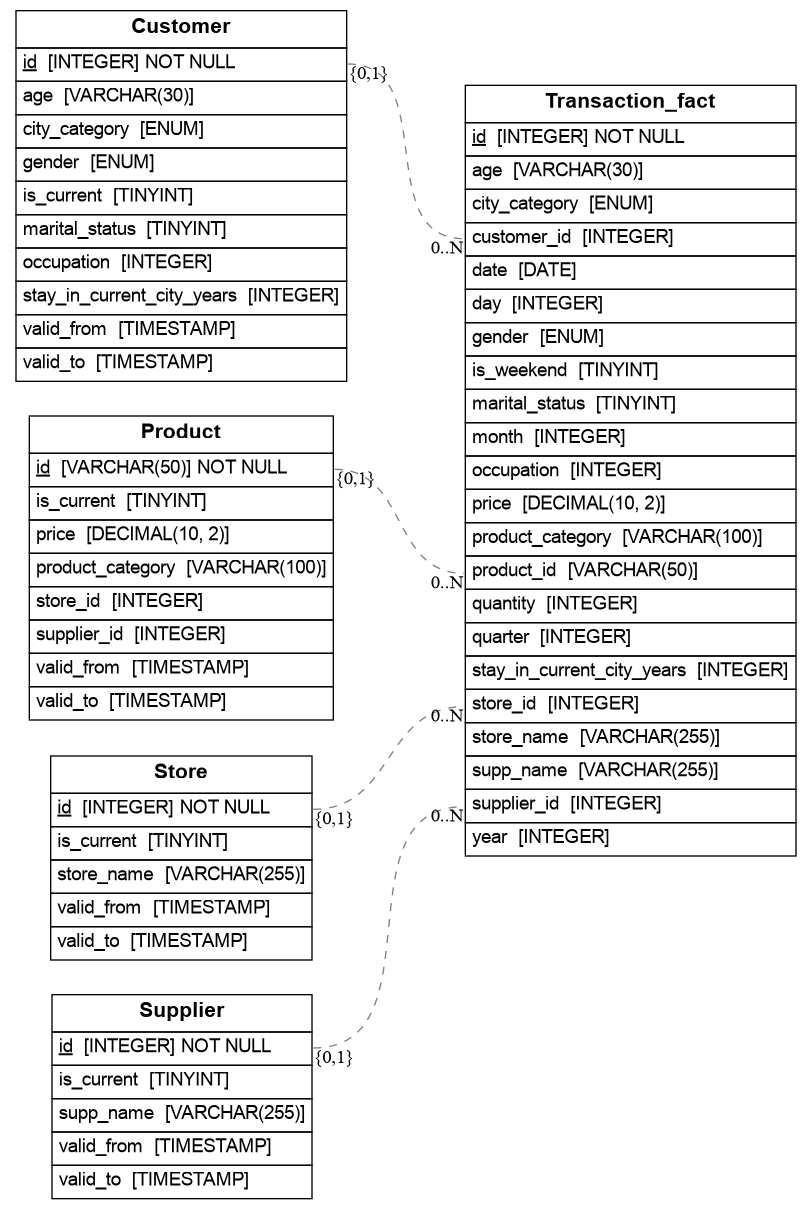
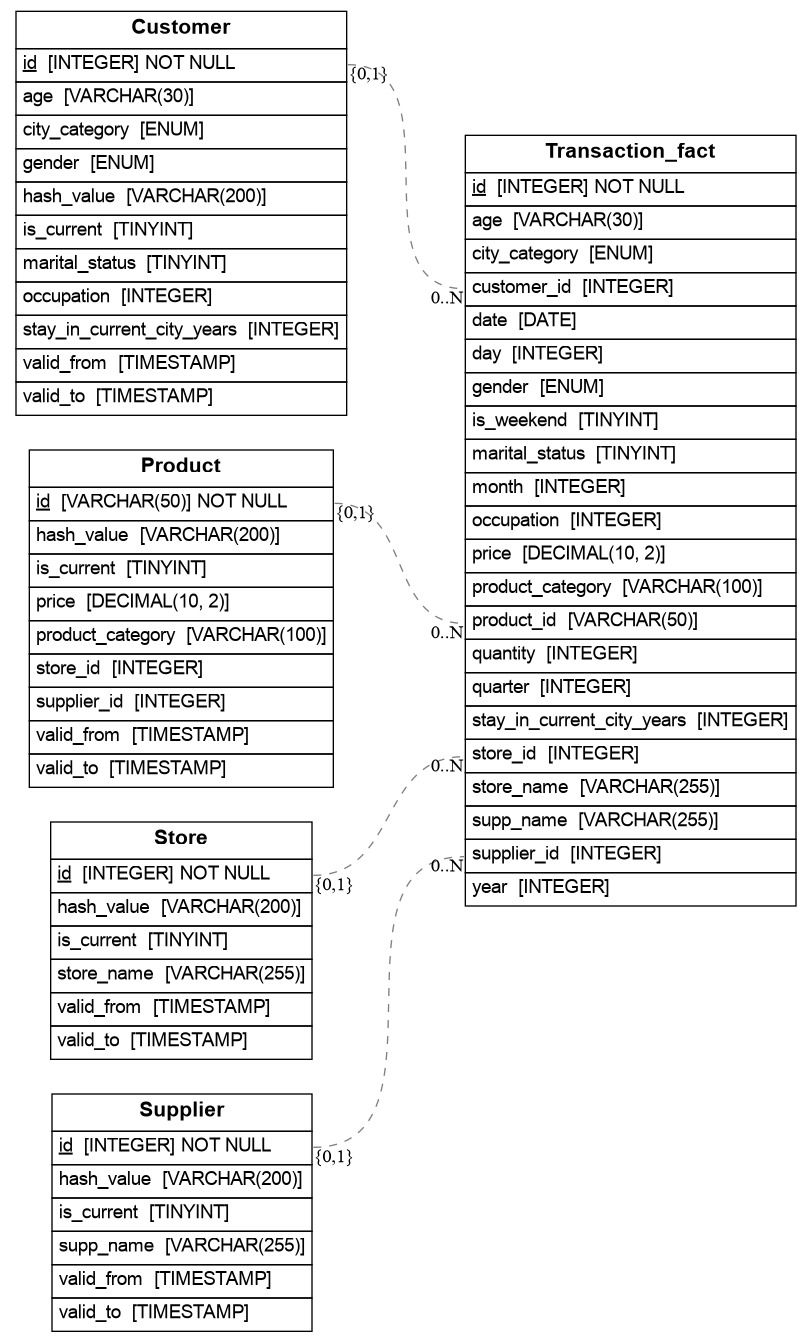
did implement a ftn

Changed region(s): [[0.0308, 0.0, 0.4618, 1.0], [0.5234, 0.0612, 0.9852, 0.7039], [0.4618, 0.0612, 0.4926, 0.0918]]

diff --git a/etl/master_data_loader.py b/etl/master_data_loader.py
@@ -2,7 +2,55 @@ import sqlalchemy
 import pandas as pd
 from sqlalchemy import text
 from etl.constants import MASTER_DATA_FILES
-
+import hashlib
+master_data_info = [
+        {
+            "csv_file": MASTER_DATA_FILES["customers"],
+            "table_name": "Customer",
+            "columns_to": {
+                "Customer_ID": "id",
+                "Gender": "gender",
+                "Age": "age",
+                "Occupation": "occupation",
+                "City_Category": "city_category",
+                "Stay_In_Current_City_Years": "stay_in_current_city_years",
+                "Marital_Status": "marital_status"
+            },
+            "drop_columns": [0]
+        },
+        {
+            "csv_file": MASTER_DATA_FILES["products"],
+            "table_name": "Product",
+            "columns_to": {
+                "Product_ID": "id",
+                "Product_Category": "product_category",
+                "price$": "price",
+                "supplierID": "supplier_id",
+                "storeID": "store_id"
+            },
+            "drop_columns": [0,6,7]
+        },
+        {
+            "csv_file": MASTER_DATA_FILES["products"],
+            "table_name": "Store",
+            "columns_to": {
+                "storeID": "id",
+                "storeName": "store_name"
+            },
+            "drop_columns": [0,1,2,3,5,7]
+        },
+        {
+            "csv_file": MASTER_DATA_FILES["products"],
+            "table_name": "Supplier",
+            "columns_to": {
+                "supplierID": "id",
+                "supplierName": "supp_name"
+            },
+            "drop_columns": [0,1,2,3,4,6]
+        }
+]
+    
+    
 def already_loaded(engine, table_name, df):
     with engine.connect() as conn:
         # Check row count
@@ -27,6 +75,14 @@ def already_loaded(engine, table_name, df):
         # Compare
         return sorted(sample_db_values) == sorted(sample_values)
 
+
+def row_hash(row):
+    # get a single integer hash for the row
+    row_hash_int = pd.util.hash_pandas_object(row, index=True).values.sum()
+    # convert integer to bytes
+    row_bytes = str(row_hash_int).encode('utf-8')
+    # get md5 hex string
+    return hashlib.md5(row_bytes).hexdigest()
 
 def load_csv(from_csv, to_table, columns_to, engine, drop_columns=None):
     df = pd.read_csv(from_csv)
@@ -58,58 +114,101 @@ def load_csv(from_csv, to_table, columns_to, engine, drop_columns=None):
     df["valid_from"] = pd.Timestamp.now()
     df["valid_to"] = pd.NaT
     df["is_current"] = True
+    df['hash_value'] = df.apply(row_hash, axis=1)
 
-    df.to_sql(to_table, con=engine, if_exists='append', index=False)
-    print(f"Loaded data from {from_csv} to table {to_table}.")
-    
+    # df.to_sql(to_table, con=engine, if_exists='append', index=False)
+    # print(f"Loaded data from {from_csv} to table {to_table}.")
+    return df
     
 def load_master_data(engine):
-    load_csv(
-        from_csv=MASTER_DATA_FILES["customers"],
-        to_table="Customer",
-        columns_to={
-            "Customer_ID": "id",
-            "Gender": "gender",
-            "Age": "age",
-            "Occupation": "occupation",
-            "City_Category": "city_category",
-            "Stay_In_Current_City_Years": "stay_in_current_city_years",
-            "Marital_Status": "marital_status"
-        },
-        drop_columns=[0],  # drop the first unnamed index column
+    global master_data_info
+    df = load_csv(
+        from_csv = master_data_info[0]["csv_file"],
+        to_table = master_data_info[0]["table_name"],
+        columns_to = master_data_info[0]["columns_to"],
+        drop_columns = master_data_info[0]["drop_columns"],
         engine=engine
     )
-    load_csv(
-        from_csv=MASTER_DATA_FILES["products"],
-        to_table="Product",
-        columns_to={
-            "Product_ID": "id",
-            "Product_Category": "product_category",
-            "price$": "price",
-            "supplierID": "supplier_id",
-            "storeID": "store_id"
-        },
-        drop_columns=[0,6,7],  # drop the first unnamed index column and unnecessary columns
+    df.to_sql("Customer", con=engine, if_exists='append', index=False)
+
+    df = load_csv(
+
+        from_csv = master_data_info[1]["csv_file"],
+        to_table = master_data_info[1]["table_name"],
+        columns_to = master_data_info[1]["columns_to"],
+        drop_columns = master_data_info[1]["drop_columns"],
         engine=engine
     )
-    load_csv(
-        from_csv=MASTER_DATA_FILES["products"],
-        to_table="Store",
-        columns_to={
-            "storeID": "id",
-            "storeName": "store_name"
-        },
-        drop_columns=[0,1,2,3,5,7],  # drop the first unnamed index column and unnecessary columns
+    df.to_sql("Product", con=engine, if_exists='append', index=False)
+
+    df = load_csv(
+
+        from_csv = master_data_info[2]["csv_file"],
+        to_table = master_data_info[2]["table_name"],
+        columns_to = master_data_info[2]["columns_to"],
+        drop_columns = master_data_info[2]["drop_columns"],
         engine=engine
     )
+    df.to_sql("Store", con=engine, if_exists='append', index=False)
+
     
-    load_csv(
-        from_csv=MASTER_DATA_FILES["products"],
-        to_table="Supplier",
-        columns_to={
-            "supplierID": "id",
-            "supplierName": "supp_name"
-        },
-        drop_columns=[0,1,2,3,4,6],  # drop the first unnamed index column and unnecessary columns
+    df = load_csv(
+
+        from_csv = master_data_info[3]["csv_file"],
+        to_table = master_data_info[3]["table_name"],
+        columns_to = master_data_info[3]["columns_to"],
+        drop_columns = master_data_info[3]["drop_columns"],
         engine=engine
     )
+    df.to_sql("Supplier", con=engine, if_exists='append', index=False)
+
+    
+    
+def update_master_data(engine):
+    # for each master data table, check for modified rows and update them
+    # load the csv files into data fram and compare the hash values with the database
+    for x in range(4):
+        info = master_data_info[x]
+        df = pd.read_csv(info["csv_file"])
+        for col in sorted(info["drop_columns"] or [], reverse=True):
+            df.drop(df.columns[col], axis=1, inplace=True)
+        if info["columns_to"]:
+            df = df.rename(columns=info["columns_to"])
+        # drop duplicates
+        df.drop_duplicates(subset=[df.columns[0]], keep='first', inplace=True)
+        if df[df.columns[0]].dtype == object and not df[df.columns[0]][0].isdigit():        
+            df[df.columns[0]] = df[df.columns[0]].astype(str).str.lstrip('P').str.strip()
+            df[df.columns[0]] = df[df.columns[0]].str.replace(r'42$', '', regex=True)
+        df[df.columns[0]] = pd.to_numeric(df[df.columns[0]], errors='raise').astype('Int64')
+        df['hash_value'] = df.apply(row_hash, axis=1)
+
+        # now compare with database
+        with engine.connect() as conn:
+            for index, row in df.iterrows():
+                pk = row[df.columns[0]]
+                hash_value = row['hash_value']
+                result = conn.execute(
+                    text(f"SELECT hash_value FROM {info['table_name']} WHERE id = :pk AND is_current = TRUE"),
+                    {"pk": pk}
+                ).fetchone()
+                if result is None:
+                    continue
+                db_hash_value = result[0]
+                if hash_value != db_hash_value:
+                    # update the row - set is_current to false and valid_to to now
+                    conn.execute(
+                        text(f"UPDATE {info['table_name']} SET is_current = FALSE, valid_to = :now WHERE id = :pk AND is_current = TRUE"),
+                        {"now": pd.Timestamp.now(), "pk": pk}
+                    )
+                    # insert new row with updated data
+                    new_row = row.to_dict()
+                    new_row['valid_from'] = pd.Timestamp.now()
+                    new_row['valid_to'] = None
+                    new_row['is_current'] = True
+                    conn.execute(
+                        text(f"""INSERT INTO {info['table_name']} 
+                                ({', '.join(new_row.keys())}) 
+                                VALUES ({', '.join([':' + k for k in new_row.keys()])})"""),
+                        new_row
+                    )
+        print(f"Updated master data for table {info['table_name']}.")

diff --git a/app.py b/app.py
@@ -4,7 +4,7 @@ import sqlalchemy
 import mysql.connector
 from sqlalchemy import MetaData
 from eralchemy import render_er
-from etl.master_data_loader import load_master_data
+from etl.master_data_loader import load_master_data, update_master_data
 import threading
 from etl.thread_functions import extract_data, join_worker
 import etl.constants as constants
@@ -25,7 +25,8 @@ if "load_master_data" not in st.session_state:
     st.session_state.load_master_data = None
 if "start_etl" not in st.session_state:
     st.session_state.start_etl = None
-
+if "update_master_data" not in st.session_state:
+    st.session_state.update_master_data = None
 
     
     
@@ -84,28 +85,30 @@ if not st.session_state.get("db_connected"):
     st.rerun()
 
 
-
-
 # if db connected, set up buttons to load master data and start etl process
 if st.session_state.db_connected:
     st.button("Disconnect", on_click=lambda: st.session_state.update({"db_connected": False}))
     st.button("Load Master Data", on_click=lambda: st.session_state.update({"load_master_data": True}))
+    st.button("Update Master Data", on_click=lambda: st.session_state.update({"update_master_data": True}))
     
     # if load master data is clicked, load master data and set up a button to start etl process
     if st.session_state.get("load_master_data"):
         st.button("Start real time ETL process", on_click=lambda: st.session_state.update({"start_etl": True}))
         load_master_data(engine=st.session_state.engine)
         st.session_state.load_master_data = False
+    
+    if st.session_state.get("update_master_data"):
+        st.info("Checking for modified rows and updating master data...")
+        update_master_data(engine=st.session_state.engine)
+        st.session_state.update_master_data = False
+    
     if st.session_state.get("start_etl") and not st.session_state.get("threads_started"):
         st.session_state.threads_started = True  # mark before starting thread
         st.success("Starting real-time ETL process in the background...")
-
-
 
         etl_thread = threading.Thread(target=extract_data, daemon=True)
         etl_thread.start()
 
         hybrid_join_thread = threading.Thread(target=join_worker, args=(st.session_state.db_url,), daemon=True)
         hybrid_join_thread.start()
-        
         

diff --git a/etl/hybridjoin.py b/etl/hybridjoin.py
@@ -110,6 +110,8 @@ class HybridJoin():
                     disk_row_dict_copy.pop('is_current', None)
                     disk_row_dict_copy.pop('valid_to', None)
                     disk_row_dict_copy.pop('valid_from', None)
+                    disk_row_dict_copy.pop('hash_value', None)
+
 
                     merged_row = pd.concat([stream_row, pd.Series(disk_row_dict_copy)])
                     result_rows.append(merged_row)